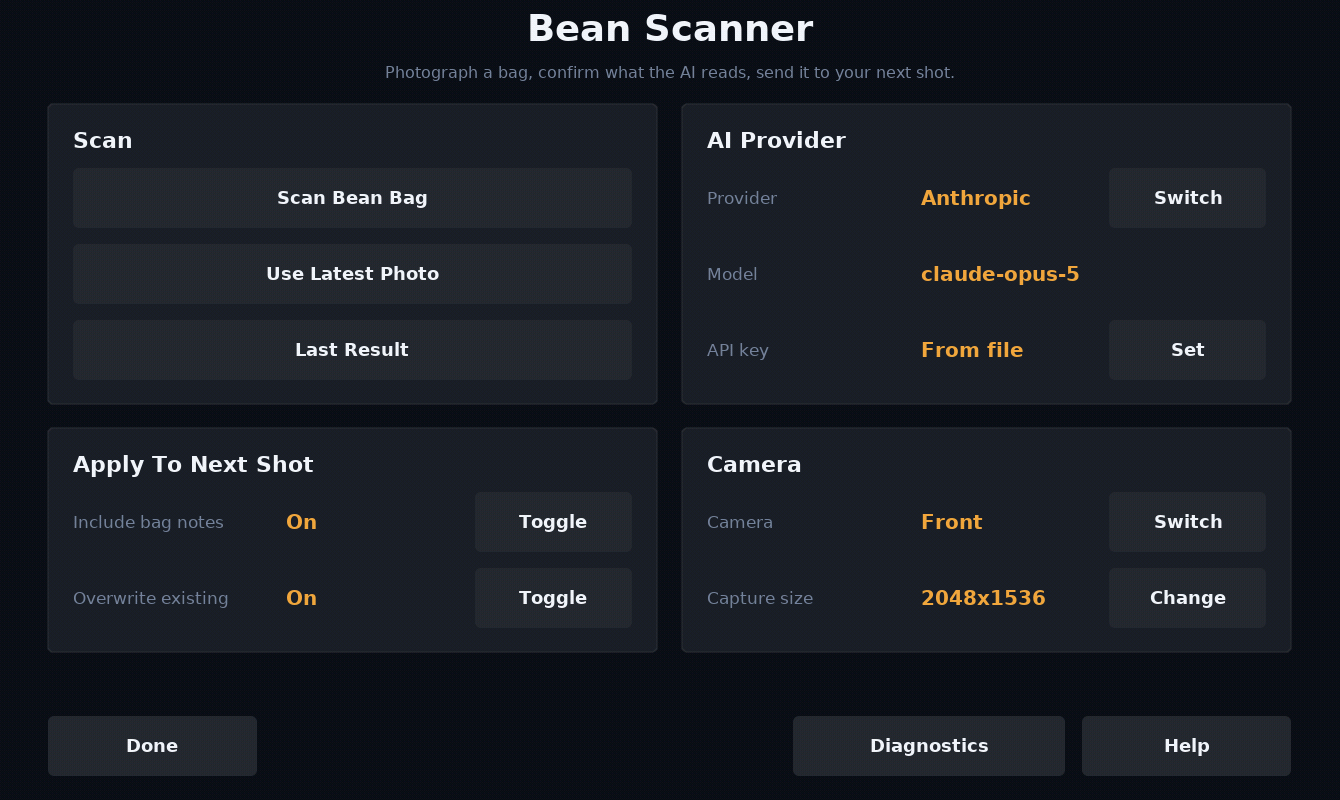
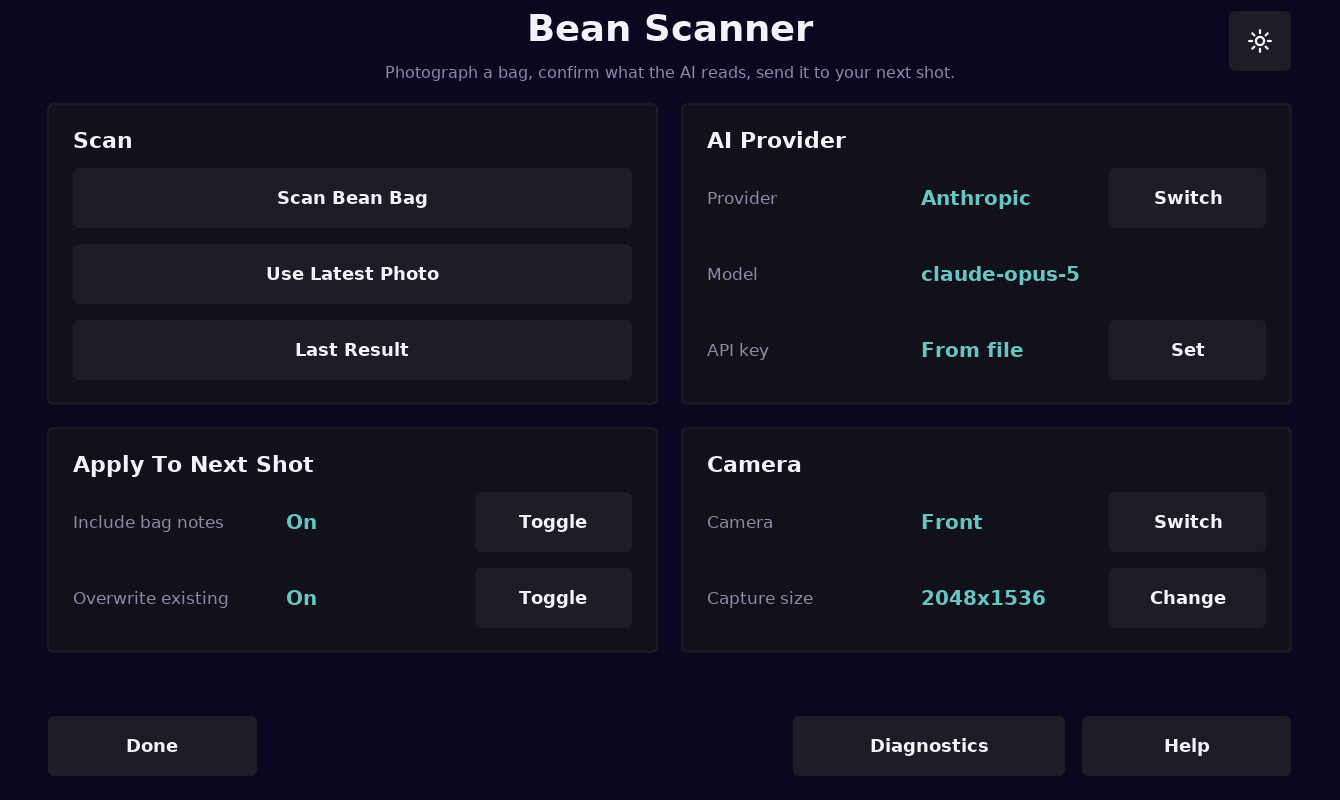
Docs: screenshot-first README
A gallery of real tablet captures with one-line captions at the top,
Install and Safety in a few lines, the full reference folded below.

diff --git a/README.md b/README.md
@@ -1,12 +1,34 @@
 # Bean Scanner
 
+**Photograph the coffee bag. Claude or GPT reads the label and fills DYE's next shot after you confirm.**
+Version 0.9.13 · a plugin for the Decent DE1app · by Blastize
+
+![The camera page: shutter circle, flash, flip camera, trash and Send](docs/camera.jpg)
+
+**Scan the bag.** The screen becomes a camera. Tap the shutter for every printed side of the bag (the roast date is often on the back), then Send. Flash, camera flip and a trash circle to start over.
+
+![The settings page: scan buttons, AI provider and model, camera and capture size](docs/settings-page.png)
+
+**Settings.** Scan, reuse the latest photo or reopen the last result. Choose Claude or GPT and the model, set your API key, pick the camera and capture size. Light and dark palette.
+
+## Install
+
+Copy the folder to `de1plus/plugins/BeanScanner/`, restart the app, enable **Bean Scanner** under Extensions. Needs the DYE plugin and your own API key (Anthropic or OpenAI, pay-as-you-go; one scan costs a fraction of a cent).
+
+## Safety
+
+Nothing is written until you press Accept, and then only DYE's next-shot description. The shot database and history files are never touched. Your API key stays on the tablet.
+
+<details>
+<summary><b>Full reference and version notes</b></summary>
+
+## Reference
+
 A plugin for the [Decent Espresso DE1app](https://github.com/decentespresso/de1app).
 Photograph a bag of coffee with the tablet camera, an AI vision model reads
 the label, and — after you confirm what it read — the roaster, bean, roast
 date, roast level and notes go into DYE's next shot. No more typing bag
 details on a tablet keyboard.
-
-![Bean Scanner settings page](docs/settings-page.png)
 
 *The settings page, adopting the active skin's palette.*
 
@@ -209,3 +231,5 @@ GPLv3 — see [LICENSE](LICENSE). Same license as the DE1app and DYE.
 
 This is an independent community plugin. It is not affiliated with, endorsed
 by, or supported by Decent Espresso, Anthropic, or OpenAI.
+
+</details>
